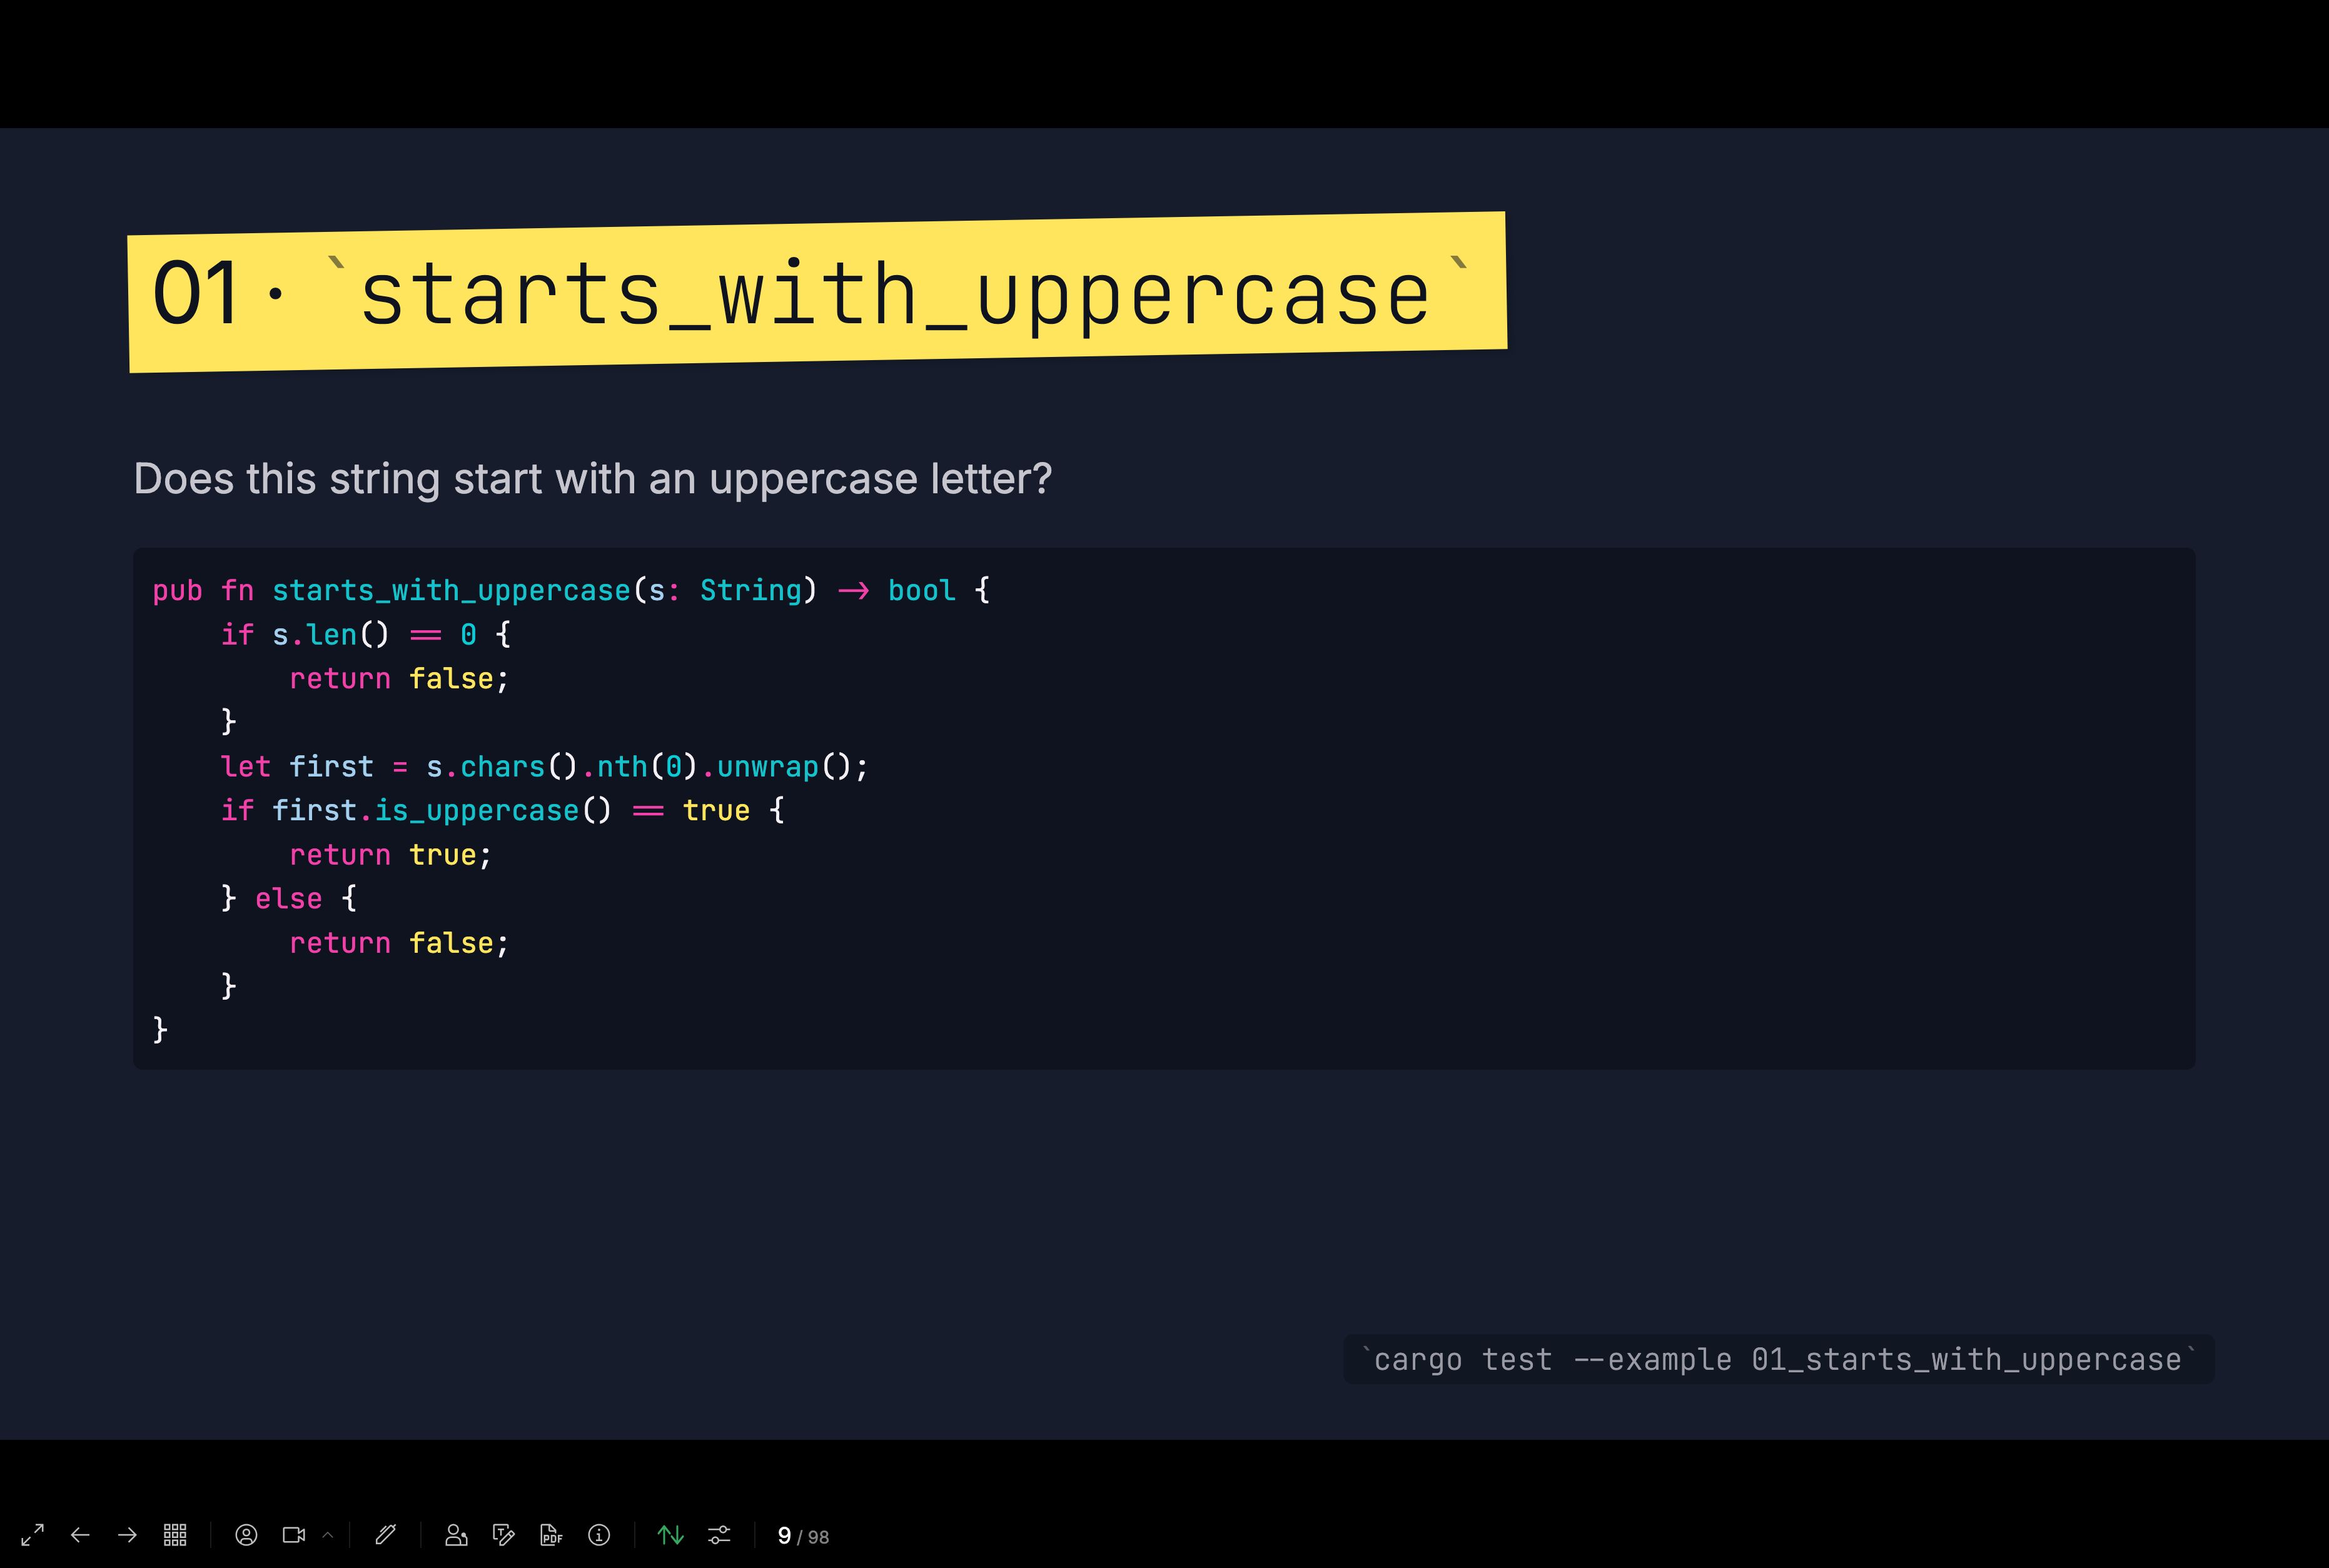
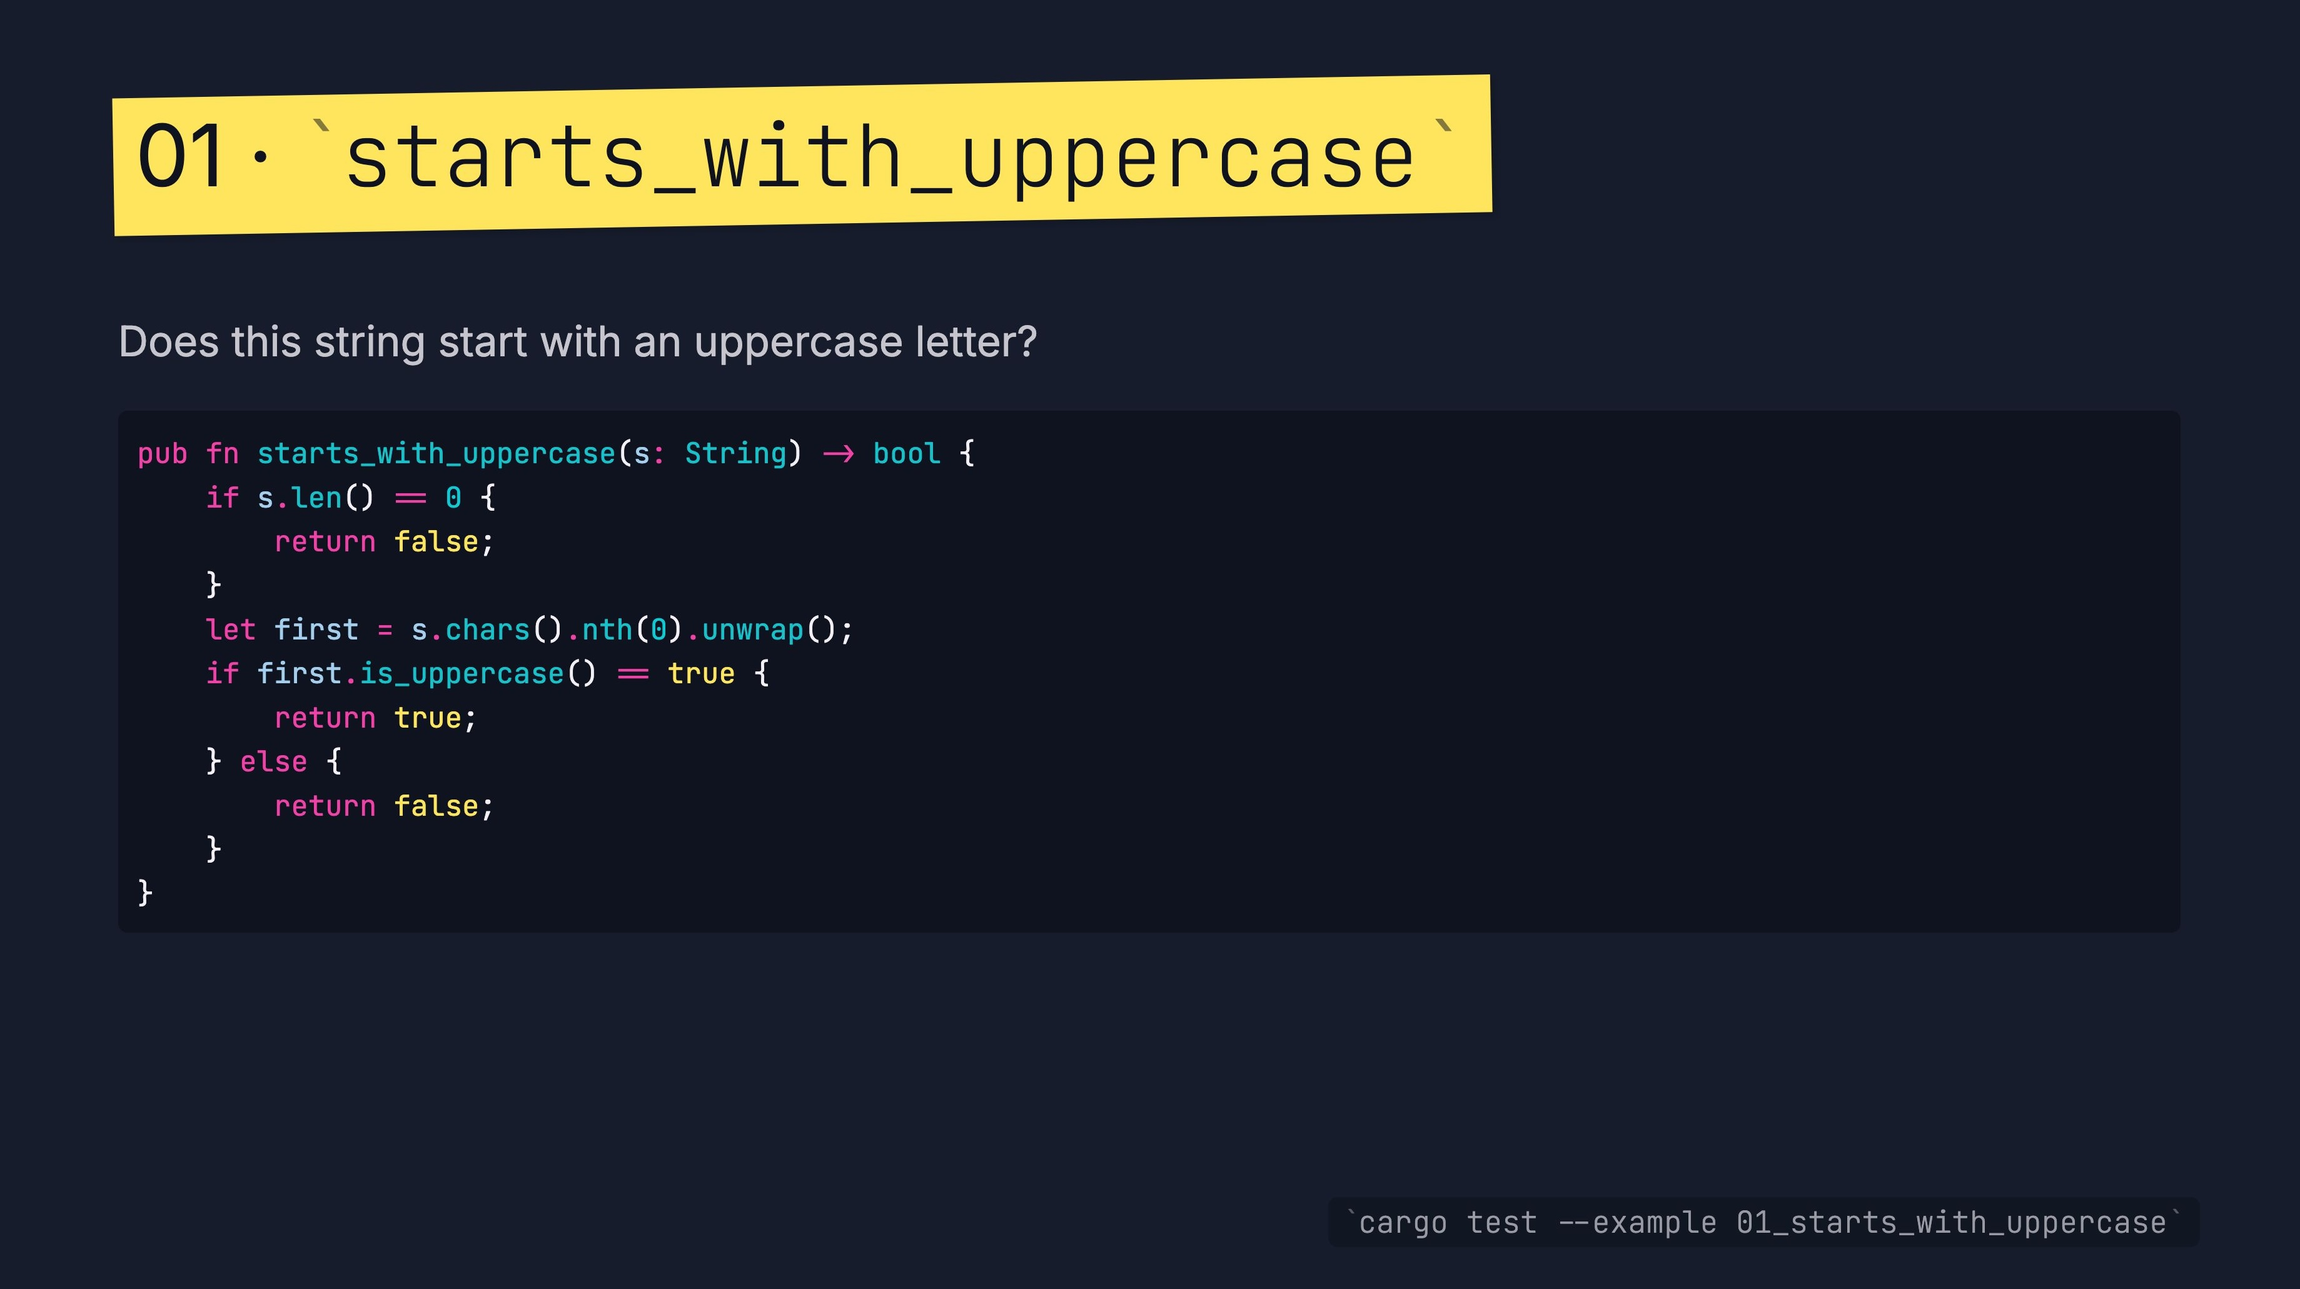
Add subtitle to README

Changed region(s): [[0.0, 0.0, 1.0, 0.4345], [0.0, 0.9001, 1.0, 1.0], [0.093, 0.4656, 0.3719, 0.6518]]

diff --git a/README.md b/README.md
@@ -1,5 +1,7 @@
 # Refactoring Rust
 
+*Hands-on exercises for writing more idiomatic, maintainable Rust.*
+
 ![Sample exercise](./assets/exercise1.jpg)
 
 With Rustlings and 100 exercises to learn Rust, there exist two excellent
